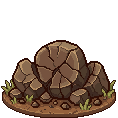
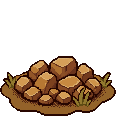
deploy lun 21/09/2026 15:57:16,86

diff --git a/public/game/boot.js b/public/game/boot.js
@@ -60,8 +60,10 @@ class BootScene extends Phaser.Scene {
     L.push(["buzon", P + "buzon.png?v=3"]);            // buzón (15/8) — banderita baja
     L.push(["buzon_full", P + "buzon_full.png?v=3"]);  // …con carta y banderita alta
     L.push(["sprout", P + "sprout.png?v=5"]);
+    // v8: piedra agotada baja y cálida; conserva una lectura inequívoca frente al hierro.
+    L.push(["node_stone_mined", P + "node_stone_mined.png?v=8"]);
     // v7: restos correctos sobre su parche de tierra (los v6 venían de una copia vieja)
-    ["node_stone_mined","node_bronze_mined","node_gold_mined","node_diamond_mined","node_netherite_mined"]
+    ["node_bronze_mined","node_gold_mined","node_diamond_mined","node_netherite_mined"]
       .forEach(k => L.push([k, P + k + ".png?v=7"]));
     L.push(["node_iron_mined", P + "node_iron_mined.png?v=3"]);   // hierro: veta fría, diferenciada de piedra
     L.push(["dummy", P + "dummy.png"]);   // muñeco de práctica de espada
@@ -89,18 +91,21 @@ class BootScene extends Phaser.Scene {
     // etapas intermedias (la verdura asomando al 50% del crecimiento)
     if (typeof CROP_ORDER !== "undefined") CROP_ORDER.forEach(k => L.push(["cropm_" + k, P + "cropm_" + k + ".png?v=3"]));
     L.push(["tree", P + "tree.png?v=5"]);   // v3: árbol con efecto de plantado (detalles jueves)
-    // progresión de talado (PixelLab 30/7): corte leve → corte profundo → tocón con tierra y hojas
+    // progresión de talado: corte leve → corte profundo → tocón con hojas/regeneración visibles
     L.push(["tree_cut1", P + "tree_cut1.png?v=3"]);
     L.push(["tree_cut2", P + "tree_cut2.png?v=3"]);
-    L.push(["tree_stump_leaves", P + "tree_stump_leaves.png?v=3"]);
+    L.push(["tree_stump_leaves", P + "tree_stump_leaves.png?v=4"]);
     L.push(["tree_half", P + "tree_half.png?v=3"]);   // mitad del enfriamiento: árbol pelado con pocas ramas (PixelLab 31/7)
     L.push(["pond", P + "pond.png?v=3"]);
     // COSTA de la isla (9/8): imagen grande y aparte, NO va al atlas (mide 1190x854)
     L.push(["isla", P + "isla.png?v=1"]);
     L.push(["portal", P + "portal.png"]);   // portal al Bosque (frame quieto de respaldo)
     for (let i = 0; i < 8; i++) L.push(["portal_" + i, P + "portal_" + i + ".png?v=5"]);   // v5: gira TODA la boca (rotación elíptica), negro completo
+    // v4: piedra cálida y redondeada, distinta de la veta de hierro fría.
+    L.push(["node_stone", P + "node_stone.png?v=4"]);
+    L.push(["node_stone_half", P + "node_stone_half.png?v=4"]);
     // v3: nodos plantados en la tierra + estados dañados (intermedio del cooldown)
-    ["node_stone","node_bronze","node_gold","node_diamond","node_netherite"]
+    ["node_bronze","node_gold","node_diamond","node_netherite"]
       .forEach(k => { L.push([k, P + k + ".png?v=3"]); L.push([k + "_half", P + k + "_half.png"]); });
     L.push(["node_iron", P + "node_iron.png?v=3"]); L.push(["node_iron_half", P + "node_iron_half.png?v=3"]);
     // versionados: el arte cambió y el caché de 1 día serviría el viejo
@@ -149,8 +154,8 @@ class BootScene extends Phaser.Scene {
   preload() {
     // ATLAS: todos los sprites del mundo en 2 archivos (mucho más liviano para el server free).
     // Si el atlas no llega, ensureAll() baja los archivos sueltos como respaldo.
-    this.load.image("__atlas", "assets/atlas.png?v=54");
-    this.load.json("__atlasmap", "assets/atlas.json?v=54");
+    this.load.image("__atlas", "assets/atlas.png?v=55");
+    this.load.json("__atlasmap", "assets/atlas.json?v=55");
     // 2/9: la isla viaja en la PRIMERA pasada (es la única imagen que no cabe en el atlas:
     // 1190x854). Antes quedaba para los reintentos y era ella sola la que disparaba una
     // segunda vuelta de descarga en cada carga del juego.

diff --git a/tools/test-carga-una-pasada.js b/tools/test-carga-una-pasada.js
@@ -81,6 +81,18 @@ console.log("\nLOS ANIMALES DEL ESTABLO CAMINAN");
     /m\.spr\.play\("pet_gallina_walk"\)/.test(FARM) && /m\.spr\.setTexture\("pet_gallina"\)/.test(FARM));
 }
 
+console.log("\nNODOS Y TALADO COMUNICAN SU ESTADO");
+{
+  const piedra = ["node_stone", "node_stone_half", "node_stone_mined"];
+  const faltan = piedra.filter(k => !ATLAS[k]);
+  ok("los tres estados de piedra viajan en el atlas", faltan.length === 0, faltan.join(", "));
+  ok("el tocón con hojas viaja en el atlas", !!ATLAS.tree_stump_leaves);
+  ok("el caché se renovó para piedra y tocón", [
+    "node_stone.png?v=4", "node_stone_half.png?v=4", "node_stone_mined.png?v=8",
+    "tree_stump_leaves.png?v=4"
+  ].every(url => BOOT.includes(url)));
+}
+
 console.log("\nEL BESTIARIO TAMBIÉN (la fase «Cargando criaturas…» no pide nada)");
 {
   const best = JSON.parse(fs.readFileSync(path.join(RAIZ, "public/assets/farm/bestiario.json"), "utf8"));

diff --git a/public/index.html b/public/index.html
@@ -1924,7 +1924,7 @@
     // 15/8: VERSIÓN DE BUILD — rompe la caché del navegador en cada deploy (sin esto, el
     // jugador seguía corriendo el state.js viejo aunque el servidor tuviera el nuevo).
     // deploy.bat la actualiza sola (busca GF_BUILD y pone la fecha/hora del deploy).
-    const GF_BUILD = "20260921-153923";
+    const GF_BUILD = "20260921-155716";
     const files = ["game/config.js","game/nav.js","game/audio.js","game/state.js","game/save.js","game/ui.js","game/boot.js",
                    "game/farm.js","game/forest.js","game/plaza.js","game/main.js","game/update.js"];
     /* 24/8 — SE BAJAN TODOS A LA VEZ, SE EJECUTAN EN FILA (dirección: « sigue tardando en

diff --git a/TODO.md b/TODO.md
@@ -289,7 +289,7 @@ Están desarrolladas en el GDD §15.0, con sus números medidos. Aquí solo el t
 ## ⚪ Visual abierto (decisión del 11/8: queda así salvo pedido nuevo)
 
 - [x] El **Mercado** quedó chico al lado de los edificios nuevos: escala visual a 2,1 celdas (88,2 px), sin cambiar asset ni sus dos celdas.
-- [ ] **Árboles, piedras y parcelas**: siguen siendo el set viejo con el color calmado.
+- [x] **Set ambiental revisado y ajustado**: árbol sano, cortes, mitad, brote y parcelas se conservaron porque ya sostienen el estilo; piedra suma tres estados cálidos y claramente distintos del hierro, y el tocón de regeneración ahora sí muestra hojas y brotes.
 - [x] **Piedra vs hierro**: veta de hierro fría, oscura y con estados propios; piedra queda cálida y redondeada.
 - [x] **Animaciones de ataque propias por arma**: espada y arco conservan las suyas; hacha y mazo suman ocho frames propios cada una.
 - [x] **Animales del Establo**: sprites reales en Establo y Álbum; alpaca, conejo, toro y jabalí caminan con nueve cuadros propios. Pinta queda animada como mascota.
